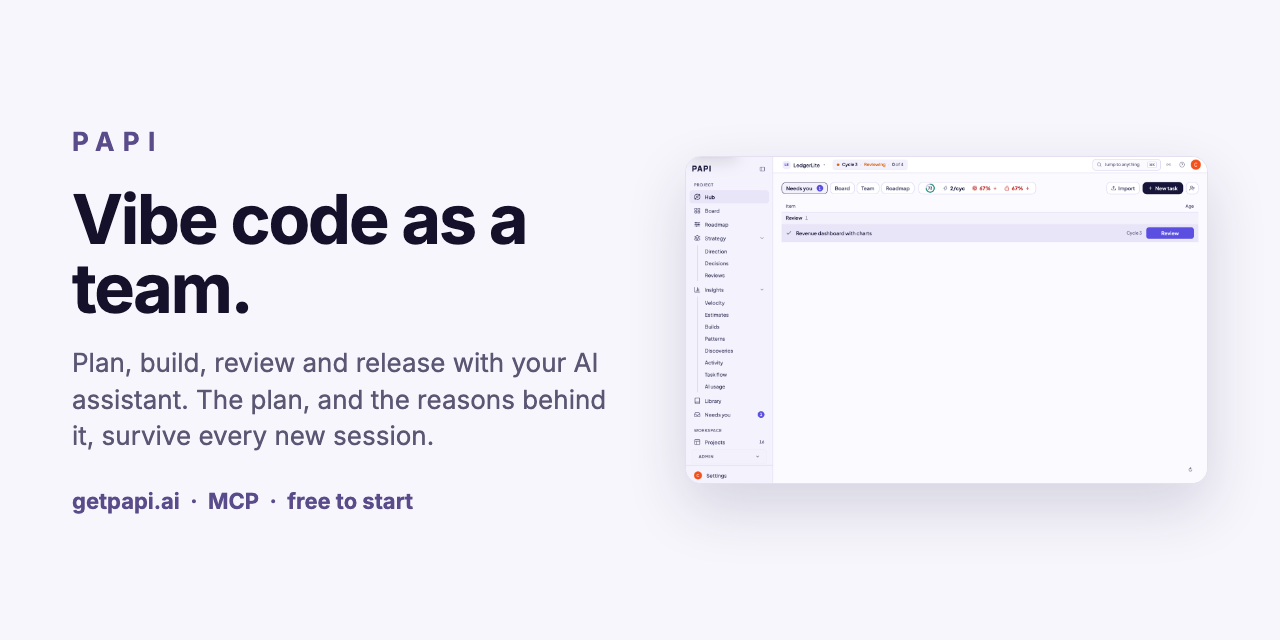
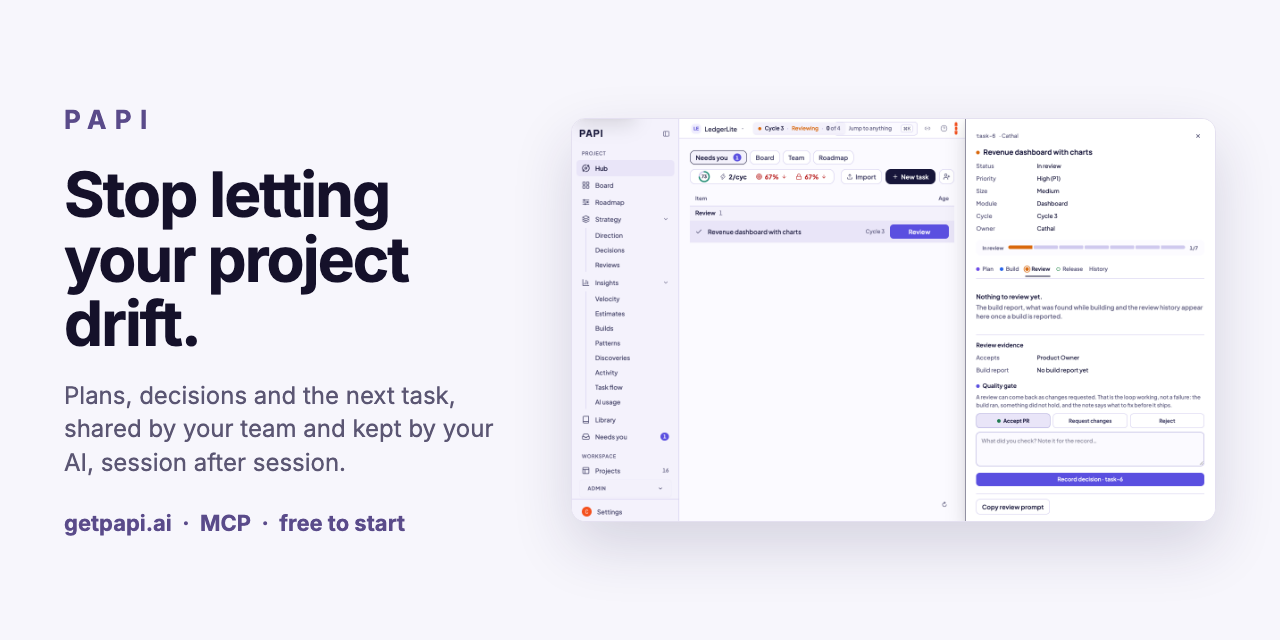
docs: update README and how-it-works to the current loop, add the tool inventory
- README: the tool list covered 27 of 79 tools and no longer matched the loop.
  It now shows the seven core-loop tools (including review_task, the review
  brief step) and links to the full list.
- docs/how-it-works.md: rewritten around orient, plan, build, review and release.
  Covers the two-step review with a human-only verdict, Active Decisions vs
  conventions, team roles (viewer, editor, release_manager), and the
  claim/session tools. Corrects two claims: release creates a tag and changelog
  rather than merging, and team members are not read-only by default.
- docs/tools.md: all 79 tools from @papi-ai/server 0.402.157, grouped by job,
  generated from the server's tools/list.
- assets/social-preview: the approved card for the GitHub social preview.

diff --git a/assets/social-preview.html b/assets/social-preview.html
@@ -8,26 +8,26 @@
   * { box-sizing: border-box; margin: 0; }
   body { width: 1280px; height: 640px; background: var(--bg); color: var(--ink);
          font-family: -apple-system, "Inter", "Helvetica Neue", Arial, sans-serif; overflow: hidden; }
-  .wrap { display: flex; height: 100%; align-items: center; padding: 0 72px; gap: 56px; }
-  .copy { flex: 1 1 52%; }
+  .wrap { display: flex; height: 100%; align-items: center; padding: 0 64px; gap: 48px; }
+  .copy { flex: 1 1 44%; }
   .mark { font-weight: 800; letter-spacing: 0.32em; font-size: 26px; color: var(--accent); }
-  h1 { font-size: 68px; line-height: 1.02; letter-spacing: -0.03em; margin: 28px 0 22px; font-weight: 800; }
-  p { font-size: 26px; line-height: 1.4; color: var(--muted); }
-  .foot { margin-top: 34px; font-size: 22px; color: var(--accent); font-weight: 600; }
-  .shot { flex: 0 0 46%; border-radius: 16px; overflow: hidden; border: 1px solid var(--line);
+  h1 { font-size: 62px; line-height: 1.04; letter-spacing: -0.03em; margin: 28px 0 22px; font-weight: 800; }
+  p { font-size: 24px; line-height: 1.4; color: var(--muted); }
+  .foot { margin-top: 30px; font-size: 22px; color: var(--accent); font-weight: 600; }
+  .shot { flex: 0 0 56%; border-radius: 14px; overflow: hidden; border: 1px solid var(--line);
           box-shadow: 0 24px 60px rgba(40, 28, 80, 0.16); background: #fff; }
-  .shot img { display: block; width: 100%; height: auto; }
+  .shot img { display: block; width: 100%; height: 100%; object-fit: cover; object-position: left top; }
 </style>
 </head>
 <body>
   <div class="wrap">
     <div class="copy">
       <div class="mark">PAPI</div>
-      <h1>Vibe code as a team.</h1>
-      <p>Plan, build, review and release with your AI assistant. The plan, and the reasons behind it, survive every new session.</p>
+      <h1>Stop letting your project drift.</h1>
+      <p>Plans, decisions and the next task, shared by your team and kept by your AI, session after session.</p>
       <div class="foot">getpapi.ai &nbsp;·&nbsp; MCP &nbsp;·&nbsp; free to start</div>
     </div>
-    <div class="shot"><img src="hub.png" alt=""></div>
+    <div class="shot"><img src="file:///private/tmp/claude-501/-Users-cathaloullivan-Ai-App-Projects-PapiUI--claude-worktrees-papi-connector-repo-outdated-089257/08ad6694-7984-4428-9b1a-0e83234dcbc8/scratchpad/shots/demo-action.png" alt=""></div>
   </div>
 </body>
 </html>

diff --git a/docs/tools.md b/docs/tools.md
@@ -1,0 +1,150 @@
+# PAPI tools
+
+Every tool the PAPI MCP server exposes, grouped by the job it does. The server version is `@papi-ai/server` 0.402.157; the live server may expose a few more.
+
+The core loop is `orient` → `plan` → `build_execute` → `review_task` → `review_submit` → `release`. The rest are the supporting tools for teams, decisions and documents.
+
+**79 tools.**
+
+## Start a session
+
+Orient at the start of every session, and check who else is working.
+
+| Tool | What it does |
+|---|---|
+| `orient` | Session orientation — run this FIRST at session start before any other tool. |
+| `papi` | Say "papi" to check in with Papi — an alias for `orient`. |
+| `session_whoami` | Read the identity this session is acting as on the current project: the acting user (id, display name, role), the transport, the announced session… |
+| `session_announce` | Announce (or renew) this session's presence on the current project — what task/branch/files it is working on. |
+| `session_list` | List every session currently active on this project — its task, branch, and files touched — so you can see a collision risk before starting work. |
+| `session_message_send` | Send a short structured message to a session, task, this project, or all sessions on this project. |
+| `session_message_list` | Read messages visible to your active session: messages addressed to it or its current task, project/broadcast messages, and its own sends. |
+| `session_message_ack` | Acknowledge a message visible to your active session. |
+| `tutorial_mode` | Read or change your personal tutorial mode. |
+| `init` | Write the MCP config file that connects this project to PAPI. |
+
+## Set up and join
+
+Create a project, or join one a teammate already set up.
+
+| Tool | What it does |
+|---|---|
+| `setup` | Create a project: writes the Product Brief, the first decisions and conventions, and the workflow instructions your assistant follows. |
+| `join` | Join a project that already exists, as a new team member. |
+| `project_create` | Create an EMPTY PAPI project for the current workspace (no plan, no seeded backlog) and return its id. |
+| `project_list` | List the PAPI projects on your account (id, name, slug, mapped folder). |
+| `project_switch` | Select a project you own by id or slug for the active session. |
+| `project_edit` | Rename a project and/or change its linked GitHub repo URL — the MCP self-service counterpart to the dashboard project settings. |
+| `project_export` | Export project knowledge as an Open Knowledge Format (OKF) v0.1 bundle. |
+| `discovery_intake` | Submit your answers to the project's discovery questions, answered in your own AI session, so they roll up into the shared brief attributed to you. |
+| `brief_update` | Amend the project Product Brief in place, without regenerating it. |
+| `backlog_import` | Import an existing backlog from another tool into PAPI as Backlog tasks, removing the "start from an empty board" wall. |
+
+## Plan
+
+Turn the backlog into a cycle with a handoff for every task.
+
+| Tool | What it does |
+|---|---|
+| `plan` | Turn a backlog into one scoped cycle of work, with a written spec for every task in it. |
+| `handoff_generate` | Generate BUILD HANDOFFs for cycle tasks that don't have one yet. |
+| `cycle_append` | Append selected backlog tasks to the currently active cycle without creating a new cycle. |
+| `scope_brief` | Decompose a brief-class task (Large/XL, too large to build directly) into a structured scope document. |
+| `planning_log` | View bounded project cycle-log history, or edit/delete one caller-owned entry by its stable UUID. |
+| `idea` | Capture an idea as a Backlog task. |
+| `board_reconcile` | Holistic board review — backlog + deferred tasks in one pass. |
+| `hierarchy_update` | Create or update a horizon, stage, or phase in the project hierarchy (AD-14). |
+
+## Build
+
+Pick a task, build it against its handoff, and record what happened.
+
+| Tool | What it does |
+|---|---|
+| `build_list` | List cycle tasks that have BUILD HANDOFFs ready for execution. |
+| `build_describe` | Show the full BUILD HANDOFF for a specific task, including scope, acceptance criteria, and implementation guidance. |
+| `build_execute` | Build one task with its spec, its branch and its record kept for you. |
+| `build_cancel` | Cancel a build task with a reason. |
+| `ad_hoc` | Record work done outside the normal cycle. |
+| `board_view` | View the Board. |
+| `board_edit` | Edit fields on an existing task. |
+| `board_deprioritise` | Remove a task from the current cycle. |
+| `board_archive` | Archive tasks from the Board. |
+| `board_delete` | Delete one never-started task with no cycle membership, build/review evidence, dependents, discovery links or recorded history. |
+| `task_claim` | Claim a task from the shared org Pool into your personal backlog (assignee = you). |
+| `task_unclaim` | Release a task you claimed back to the shared Pool (clears assignee). |
+| `task_transfer` | Change task ownership in the current project — reassign to another eligible contributor, assign an unassigned task, or (owner only) unassign a task. |
+| `task_move` | Move a task from the current project to another project you own. |
+| `task_history` | Read one task’s status/cycle transition history — who moved it, when, and which tool did it. |
+
+## Review
+
+Get the review brief, then record the human verdict.
+
+| Tool | What it does |
+|---|---|
+| `review_list` | List tasks ready for your sign-off — shows completed builds waiting for approval or feedback. |
+| `review_task` | Get the review brief for a task: call once a task is In Review, before review_submit. |
+| `review_claim` | Claim a Pending Review from the shared cross-user review queue so you are the one reviewing it. |
+| `review_submit` | Record the human verdict on a completed build: accept, request changes, or reject. |
+| `learning_action` | Mark a cycle learning as actioned (linking it to a task or idea) or list unactioned learnings. |
+| `discovered_issue_resolve` | Mark a discovered_issue (cycle_learnings row, category="issue") as resolved. |
+| `bug` | Report a bug in PAPI, or submit an idea. |
+| `bug_list` | List the upstream bug/idea reports YOU filed to the PAPI maintainers (via the `bug` tool with report=true or an auto-routed PAPI bug), newest first. |
+| `bug_resolve` | Set the triage status (and an optional resolution note) for one or more upstream bug/idea reports YOU filed, in a single call. |
+
+## Release
+
+Close the cycle, with a versioned release or without one.
+
+| Tool | What it does |
+|---|---|
+| `release` | Cut a versioned release — creates a git tag, generates CHANGELOG.md, and pushes to remote. |
+| `close_cycle` | Close the caller's accepted cycle with a durable, unversioned CHANGELOG.md entry. |
+
+## Strategy and decisions
+
+Check direction, record decisions, and read the reasoning behind them.
+
+| Tool | What it does |
+|---|---|
+| `strategy_review` | Run a Strategy Review — assesses project direction, velocity, and Active Decisions. |
+| `strategy_change` | Apply a strategic shift to the project. |
+| `strategy_agenda` | Queue topics for the next strategy review. |
+| `zoom_out` | Run a Zoom-Out Retrospective — a higher-level meta-retrospective that sits above strategy reviews. |
+| `ad_view` | View one or all Active Decisions with full bodies. |
+| `decision_resolve` | Act on a `proposed` decision from your terminal — cast your position (agree/object/abstain) or transition it (resolve/withdraw). |
+| `query` | Run a bounded, read-only structured query against your PAPI project. |
+
+## Conventions and docs
+
+Settled build rules, and the project documents behind them.
+
+| Tool | What it does |
+|---|---|
+| `convention_declare` | Record a settled build rule once so every future task on this project is told about it, instead of re-explaining it each session. |
+| `convention_list` | List the build rules this project has declared, with the id needed to remove one. |
+| `convention_edit` | Edit an existing project build rule in place. |
+| `convention_remove` | Remove a declared build rule so it stops appearing in future builds. |
+| `doc_register` | Register or update a document in the doc registry. |
+| `doc_edit` | Edit an existing registered doc IN PLACE — same doc id, same row, no duplicate. |
+| `doc_search` | Search the doc registry for documents by type, tags, keyword, or pending actions. |
+| `doc_scan` | Scan docs/ and plans directories for unregistered .md files. |
+| `doc_read` | Read a registered document's stored BODY back out of the database, and optionally restore it to disk. |
+| `doc_delete` | Permanently delete a registered doc. |
+| `doc_reorder` | Persist the display order of docs within this project. |
+| `doc_action_promote` | Promote a single pending action from a registered doc into a Backlog task. |
+
+## Team and tooling
+
+Contributors, roles, sibling projects and the harness inventory.
+
+| Tool | What it does |
+|---|---|
+| `contributor_list` | List the current project's contributors (any project member). |
+| `contributor_add` | Add a contributor to a project by email, or change an existing member's role (owner-only). |
+| `contributor_remove` | Remove a contributor from the current project by email (owner-only). |
+| `agent_list` | List the sub-agents discovered in the project's `.claude/agents/*.md` files (read-only). |
+| `inventory_sync` | Sync this project's harness inventory — skills, sub-agents, hooks, and MCP tools — to the database so the dashboard can surface it. |
+| `get_sibling_ads` | Read Active Decisions from sibling PAPI projects that share the same Supabase instance. |
+

diff --git a/docs/how-it-works.md b/docs/how-it-works.md
@@ -1,62 +1,97 @@
 # How PAPI works
 
-PAPI gives your AI assistant a structured loop to run with you, and the
-memory to make each pass through the loop smarter than the last.
+PAPI runs a plan, build, review and release loop with your AI assistant. The
+plan, the decisions and the reasoning behind them live in one place, so your
+assistant and your team read the same project.
 
-## The cycle
+## The loop
 
 ```
-plan → build → review → release → (next plan)
+orient → plan → build → review → release → (next plan)
 ```
 
-- **plan** looks at your backlog, your past cycles, and your active
-  decisions, then proposes a cycle: a small set of right-sized tasks, each
-  with a build handoff.
-- **build** is where your assistant implements a task. Starting a build
-  creates a branch and returns the handoff; completing it records a build
-  report: actual effort, surprises, and anything discovered along the way.
-- **review** records your verdict on each build: accept, request changes,
-  or reject.
-- **release** closes the cycle, merges the work, and tags it. Then the next
-  plan starts from everything the last cycle learned.
+- **orient** starts every session. It returns the current cycle, what is in
+  flight, and the recommended next action.
+- **plan** turns the backlog into one scoped cycle. Every task gets a build
+  handoff: scope, what is out of scope, acceptance criteria, the decisions
+  that constrain it, and the files it is likely to touch.
+- **build** (`build_execute`) starts a task. It hands back the handoff, puts
+  the work on the right branch, and marks the task In Progress. Completing it
+  records a build report: effort against estimate, surprises, dead ends, and
+  bugs found outside the scope.
+- **review** has two steps. `review_task` returns the review brief: the
+  acceptance criteria, the decisions and conventions that bind the module, and
+  what the build report claims. Your assistant then checks the change and asks
+  you for a verdict. `review_submit` records it. Accept moves the task to Done,
+  request changes sends it back for rework, and reject discards the build.
+  The verdict is always a human's.
+- **release** cuts a versioned release: a git tag, a CHANGELOG entry, and a
+  push. `close_cycle` finishes a cycle without a version. Either way, the next
+  plan starts from what the cycle learned.
 
 ## Build handoffs
 
-A handoff is a self-contained spec for one task: why now, what to do, what
-NOT to do, acceptance criteria, likely files, and a pre-mortem of what could
-go wrong. Handoffs are written so an assistant can execute them without
-extra context. They persist with the task, so a different tool (or a
-teammate's assistant) can pick the task up cold.
+A handoff is a self-contained spec for one task. It says what to build, what
+is deliberately out of scope, how it will be checked, and which files it is
+likely to touch. Handoffs are written so an assistant can execute them
+without extra context. They persist with the task, so a different tool or a
+teammate's assistant can pick the task up cold.
 
-## Decisions
+## Decisions and conventions
 
-Architectural and strategic choices are recorded as Active Decisions with a
-confidence level. Your assistant checks them before making related choices,
-and supersedes rather than overwrites them when direction changes, so the
-history of why stays intact.
+PAPI keeps two kinds of project rule:
+
+- **Active Decisions** are live stances, such as "Stripe Checkout, not a custom
+  payment flow". Each has a confidence level that moves as evidence arrives.
+  When direction changes, a decision is superseded rather than overwritten, so
+  the history of why stays intact. `ad_view` reads one in full.
+- **Conventions** are settled build rules, such as "use the existing date
+  helper". Declare one with `convention_declare` and every future task on the
+  project is told about it, so nobody re-explains it each session. A convention
+  can be scoped to one module.
+
+## Teams
+
+A project has members with one of three roles:
+
+- **viewer** can read the board, decisions and reviews. This is the default.
+- **editor** can run the full build, review and release cycle.
+- **release_manager** can run the cycle and carry approved releases through.
+
+The project owner sets roles with `contributor_add`. A new member runs `join`
+rather than `setup`. `join` shows the decisions and documents to read and the
+task pool to claim from, and it writes nothing to the repo.
+
+Work is assigned with `task_claim` (take a task from the pool) or
+`task_transfer` (hand a task to a teammate). Sessions show who is working on
+what: `session_announce` says what this session is on, `session_list` shows
+everyone else, and `session_message_send` passes questions, warnings and
+handoffs between sessions.
 
 ## Strategy reviews
 
-Every few cycles, PAPI steps back: are the cycles pointing the right
-direction? What recurring friction should become a task? The output feeds
-the next plan, so course corrections happen on evidence, not vibes.
+Every few cycles, PAPI steps back and checks direction: velocity, which
+decisions still hold, and what recurring friction should become a task.
+`strategy_review` produces recommendations, and `strategy_change` records a
+new decision when direction shifts. `zoom_out` looks across the whole arc of
+the project. The output feeds the next plan, so course corrections come from
+evidence rather than instinct.
 
 ## Where things live
 
-- **Your AI tool** is the command surface. Plans, builds, and reviews all
-  happen in conversation, through MCP tools.
-- **The dashboard** at [getpapi.ai](https://getpapi.ai) is the review and
-  visibility surface: board, cycles, decisions, briefs, and your team.
-- **Your data** is stored per-project and per-user in PAPI's hosted
-  backend. The remote transport authenticates every request; project data
-  is scoped to your account. Team members you add to a project can see its
-  board, decisions, and brief read-only.
+- **Your AI tool** is the command surface. Plans, builds and reviews happen in
+  conversation, through MCP tools. [Every tool, grouped by job](tools.md).
+- **The dashboard** at [getpapi.ai](https://getpapi.ai) shows the board, the
+  cycles, decisions, reviews and your team.
+- **Your data** is stored in PAPI's hosted backend. The remote transport
+  authenticates every request, and project data is scoped to the project's
+  members.
 
 ## What PAPI is not
 
-- Not a code generator. Your AI tool writes the code; PAPI keeps the plan,
-  the memory, and the loop.
-- Not a ticket system you maintain by hand. The board is written and read
+- **Not a code generator.** Your AI tool writes the code. PAPI keeps the plan,
+  the decisions and the loop.
+- **Not a ticket system you maintain by hand.** The board is written and read
   by the tools as a side effect of working.
-- Not autonomous. The loop pauses for your decisions at plan approval and
-  review. You stay in control; that is the point.
+- **Not unattended at the verdict.** Plans and reviews are shaped by you.
+  `review_submit` needs a human verdict, and nothing is accepted on your behalf.

diff --git a/README.md b/README.md
@@ -108,37 +108,17 @@ Taskmaster is a good way to break work into tasks inside a repo. PAPI adds state
 
 ## Tools
 
-PAPI exposes these MCP tools to your assistant. The whole loop is a handful of calls. The server exposes more than these, including claims and sessions for teammates, conventions, document registration and project export. The [Tool Reference](https://getpapi.ai/docs/tools) lists all of them.
+PAPI exposes 79 MCP tools to your assistant. The core loop is seven of them:
 
-**Core loop**
-- **orient** — one call returns the current cycle, what's in flight, and the recommended next action. Run it at the start of every session.
-- **setup** — scaffold PAPI onto a new project.
-- **plan** — break goals into a cycle of right-sized tasks, each with a build handoff your assistant can execute directly.
-- **build_list** — list the current cycle's tasks and their handoffs.
-- **build_execute** — start a task (creates a branch and handoff) and complete it (records the build report).
-- **review_list** / **review_submit** — surface finished builds and record accept / request-changes / reject verdicts.
-- **release** / **close_cycle** — finish the cycle, with a published version (`release`) or without one (`close_cycle`).
-- **tutorial_mode** — turn on short explanations and one clear next step in every reply. Handy for your first few cycles.
+- **orient**: the current cycle, what is in flight, and the next action. Run it at the start of every session.
+- **setup**: create a project, with its Product Brief, first decisions and conventions, and the workflow instructions your assistant follows. Teammates run **join** instead.
+- **plan**: turn the backlog into a cycle, with a build handoff for every task.
+- **build_execute**: start a task (branch, handoff, In Progress), then complete it with a build report.
+- **review_task**: the review brief for a task that is In Review. Read it before you decide.
+- **review_submit**: record the verdict, accept, request changes or reject. The verdict is always yours.
+- **release**: a versioned release with a tag and a changelog entry. **close_cycle** finishes a cycle without a version.
 
-**Board and backlog**
-- **board_view** — read the project board and any task.
-- **board_edit** — change a task's status, cycle, priority, or notes.
-- **ad_hoc** — record quick work done outside the cycle so it shows in project history.
-- **idea** — capture a feature, bug, or research note into the backlog.
-- **bug** — file a bug against the board.
-
-**Strategy and intelligence**
-- **strategy_review** — step back every few cycles to check direction, not just velocity.
-- **strategy_change** — record an Active Decision, with supersede history.
-- **zoom_out** — a periodic retrospective across many cycles.
-
-**Docs and projects**
-- **doc_register** / **doc_search** — register and find project reference docs.
-- **project_list** / **project_switch** / **project_create** — manage multiple PAPI projects.
-
-**Teams**
-- **join** — join a project a teammate invited you to.
-- **contributor_list** / **contributor_add** — see and manage who works on the project.
+The rest covers sessions, teams, decisions, conventions, documents, bugs and strategy. [The full list](docs/tools.md) groups all 79 by job.
 
 ## Documentation
 
@@ -149,7 +129,8 @@ In this repo:
 | [llms.txt](llms.txt) | The agent runbook — point your AI at this (live version: [getpapi.ai/llms.txt](https://getpapi.ai/llms.txt)) |
 | [llms-install.md](llms-install.md) | Per-tool install instructions for AI assistants |
 | [docs/install.md](docs/install.md) | Install paths for every supported tool |
-| [docs/how-it-works.md](docs/how-it-works.md) | Cycles, handoffs, decisions, and how the pieces fit |
+| [docs/how-it-works.md](docs/how-it-works.md) | Cycles, handoffs, decisions, teams, and how the pieces fit |
+| [docs/tools.md](docs/tools.md) | Every MCP tool, grouped by job |
 | [docs/troubleshooting.md](docs/troubleshooting.md) | Connection problems, project routing, common fixes |
 
 Full documentation on the website — no account needed:
